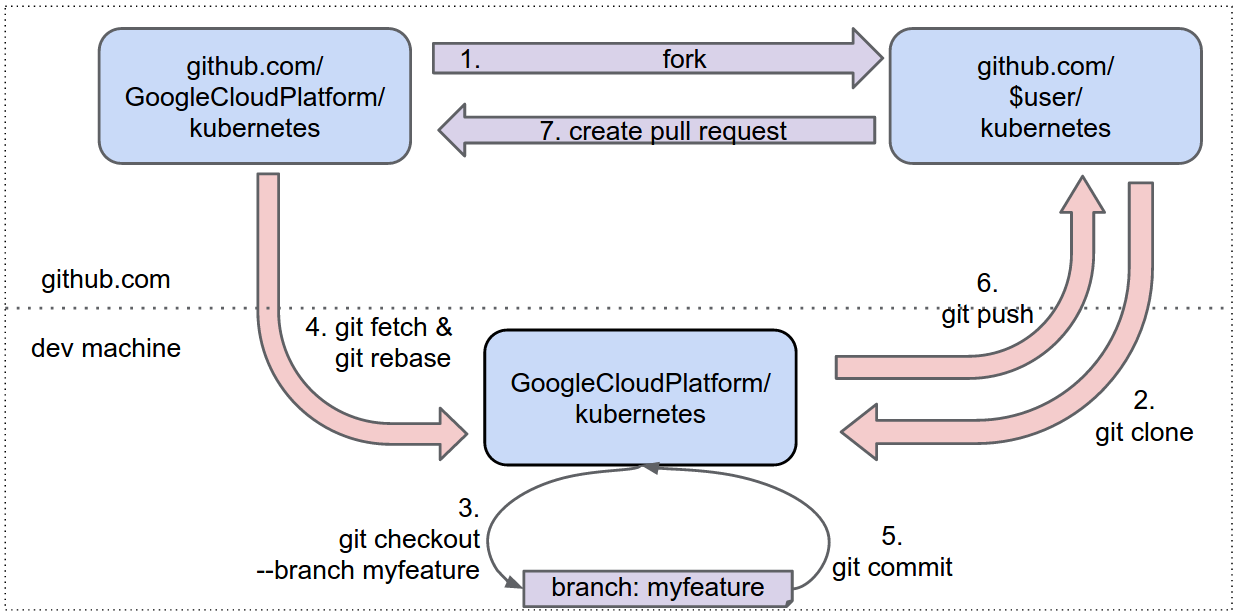
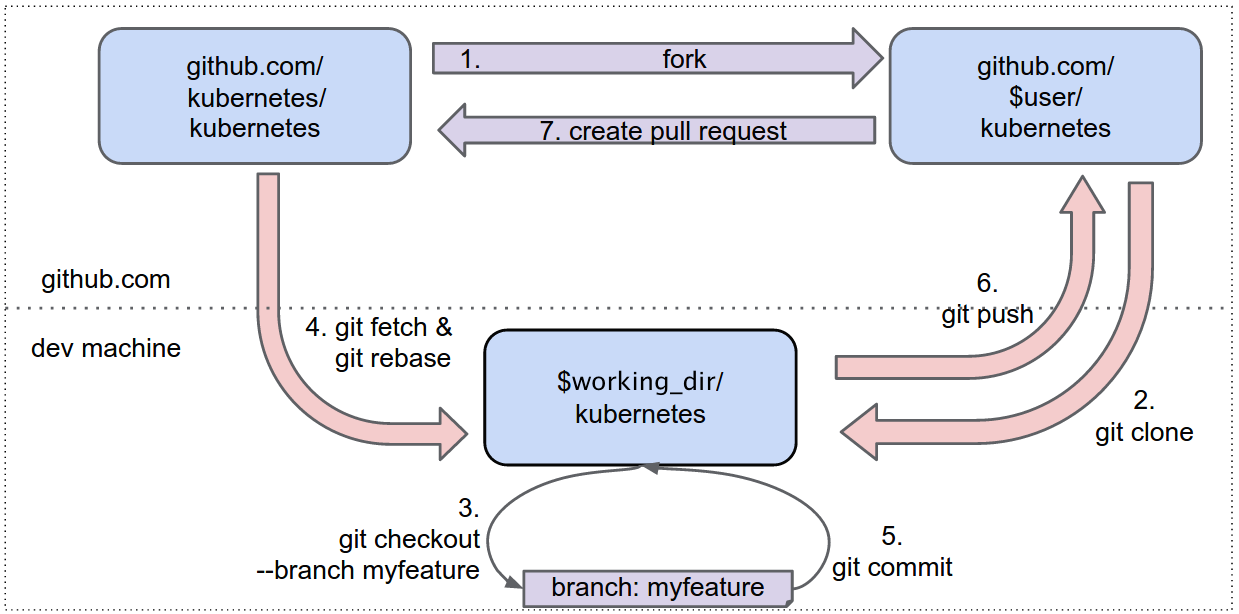
fix a typo in development.md and update git_workflow.png

Changed region(s): [[0.092, 0.1238, 0.3067, 0.1857], [0.3987, 0.5879, 0.6134, 0.6498]]

diff --git a/development.md b/development.md
@@ -96,7 +96,7 @@ git push -f origin myfeature
 
 ### Creating a pull request
 
-1. Visit http://github.com/$YOUR_GITHUB_USERNAME/kubernetes
+1. Visit https://github.com/$YOUR_GITHUB_USERNAME/kubernetes
 2. Click the "Compare and pull request" button next to your "myfeature" branch.
 3. Check out the pull request [process](pull-requests.md) for more details
 
